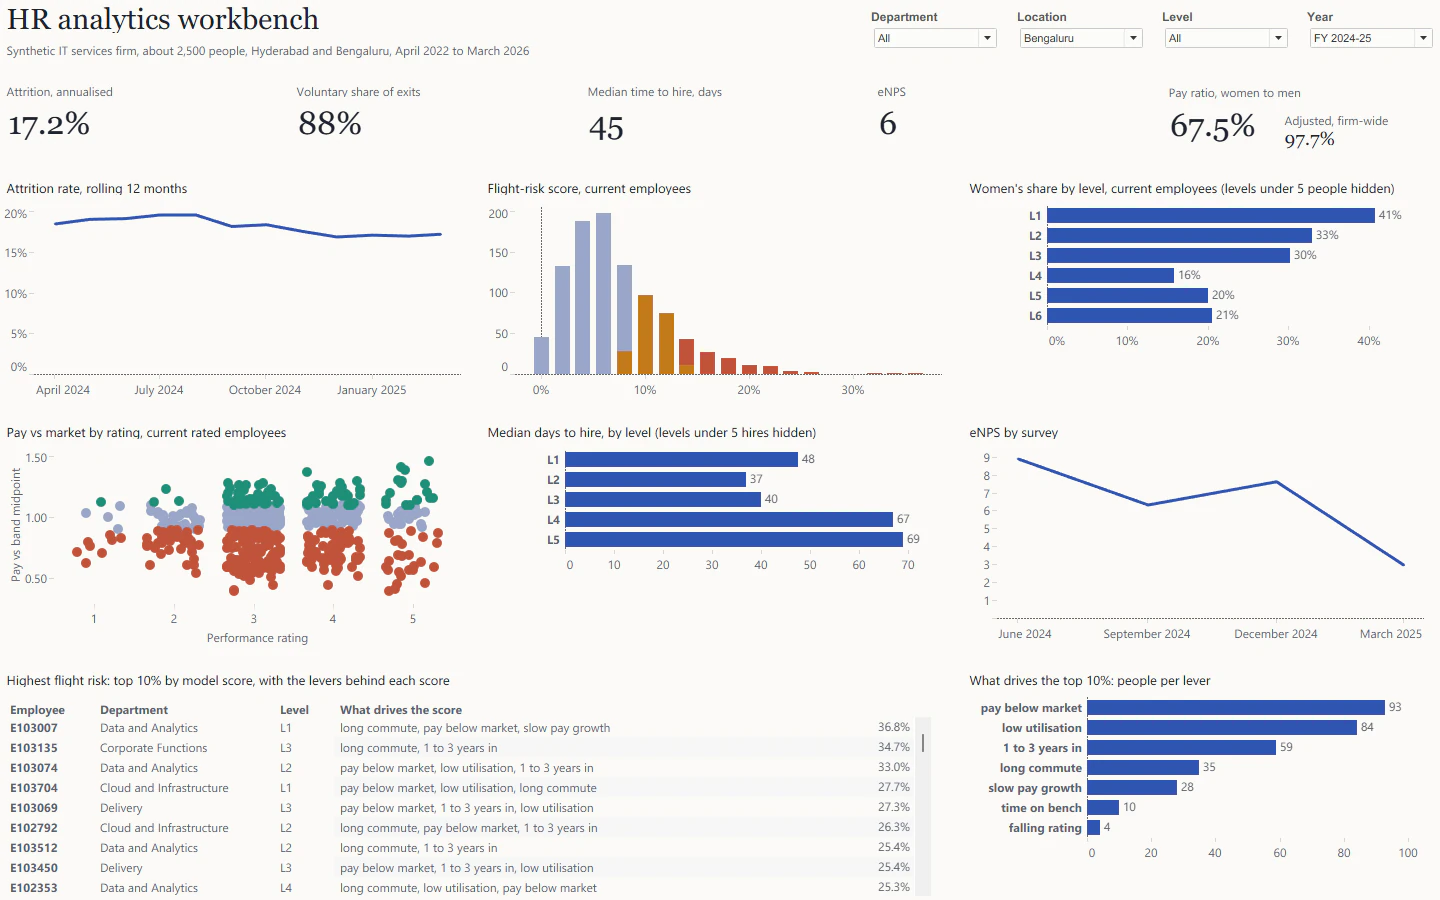
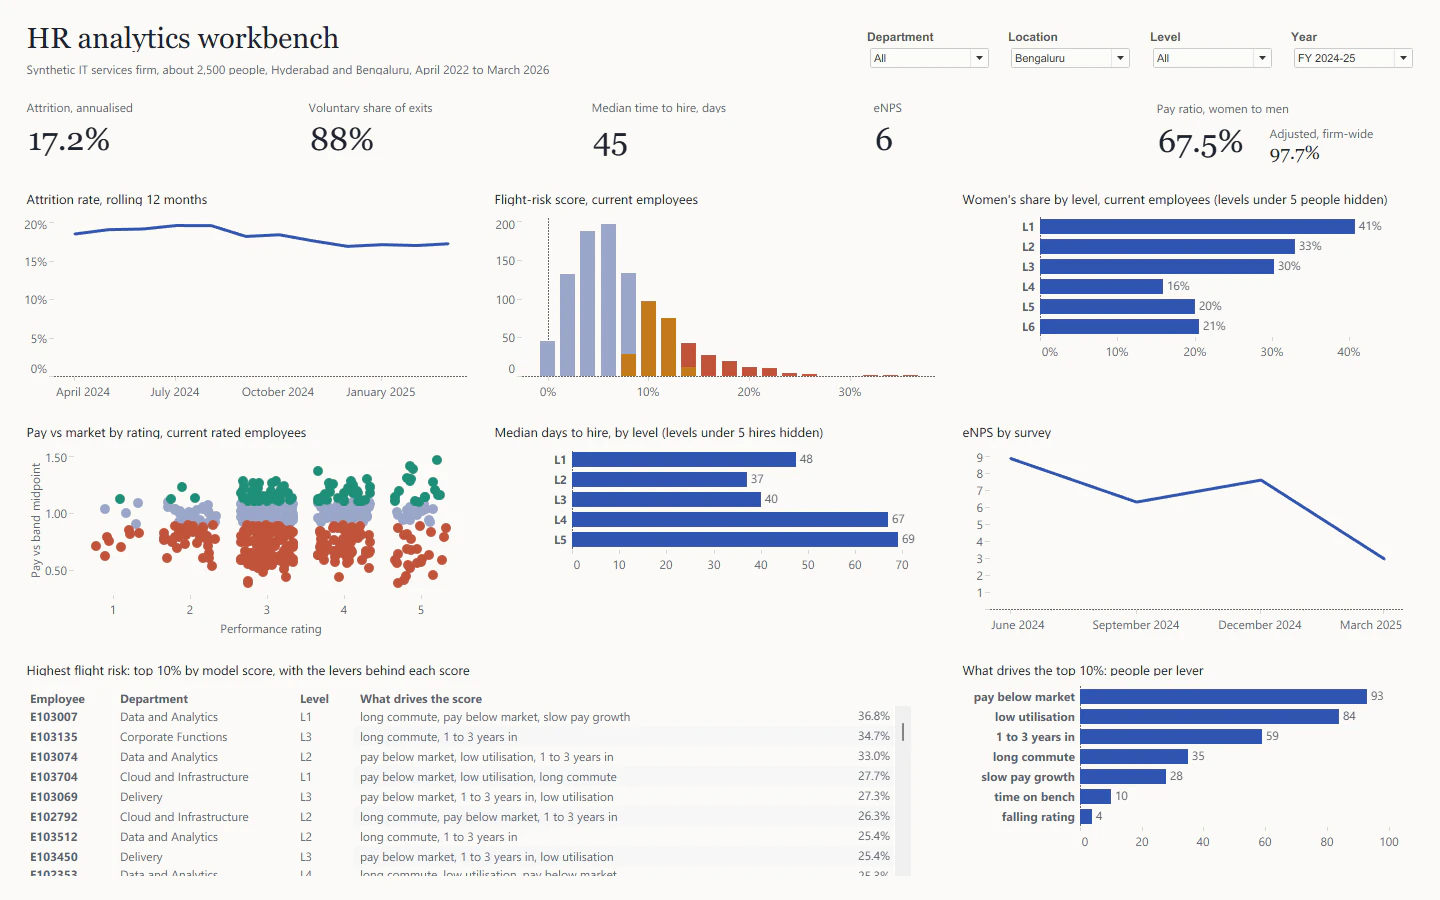
chore: refresh hr-analytics screenshots (v4.16)

diff --git a/CHANGELOG.md b/CHANGELOG.md
@@ -12,6 +12,9 @@ The whole site is one pannable 2D board; every project is drawn as its real
 production DAG (idea → decisions → production → shipped). Dual theme: **Terminal**
 (light) / **Nocturne** (dark).
 
+### v4.16 — hr-analytics screenshots refreshed — 2026-10-06
+- The three `hr-analytics` shots re-captured after the workbench gained a 24 px outer gutter (content was about 7 px from the canvas edge).
+
 ### v4.15 — Analytics: finance-bi + hr-analytics — 2026-10-06
 - **Two BI case studies added** — `finance-bi` (P.07: DuckDB model, 15 reconciliation checks, generated Power BI report) and `hr-analytics` (P.08: people analytics, fair flight-risk model, generated Tableau workbench, live on Tableau Public). Each gets a full DAG row on the board, a detail page, and a `/read` entry.
 - **New category** — `Analytics` under systems, a fifth filter chip.
